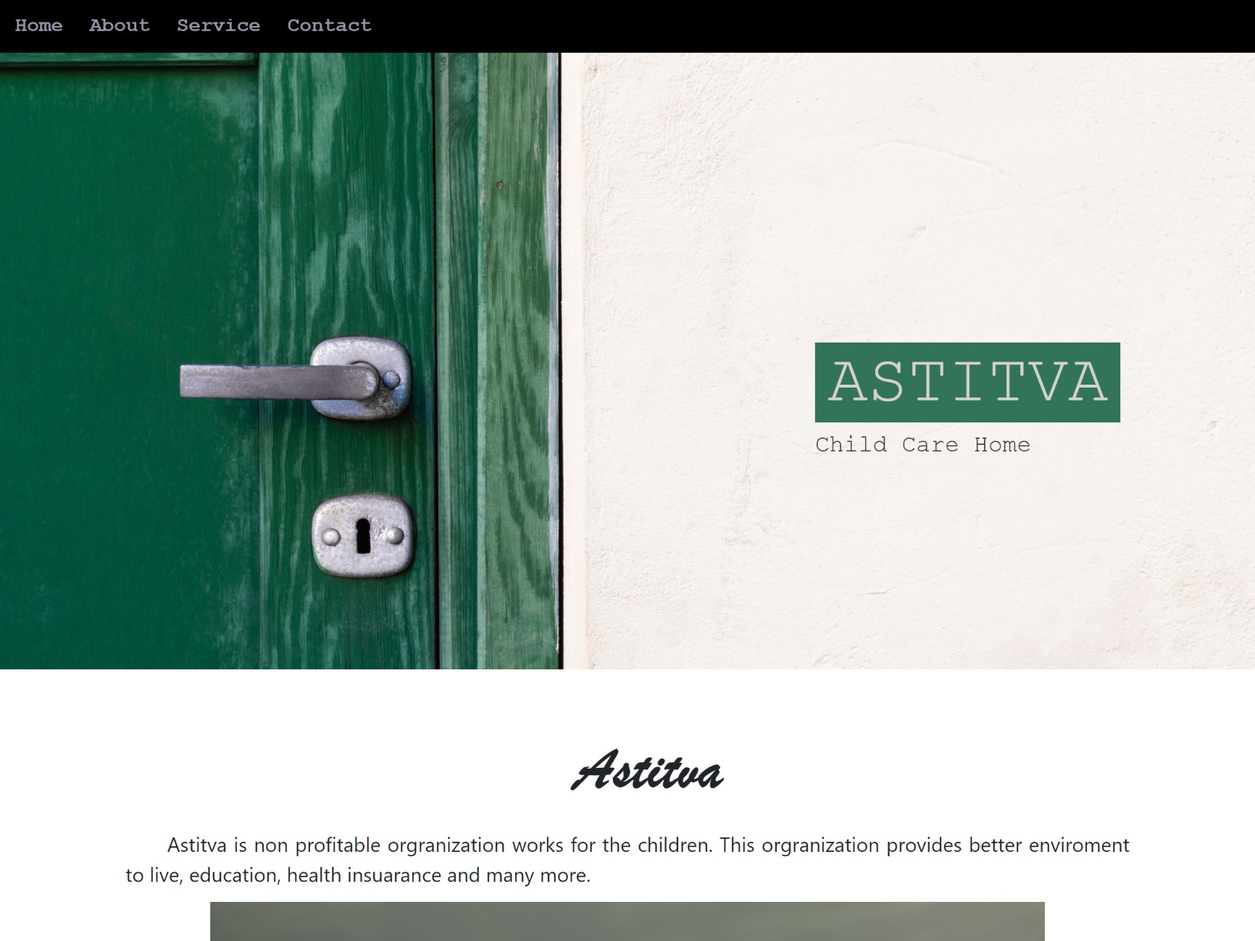
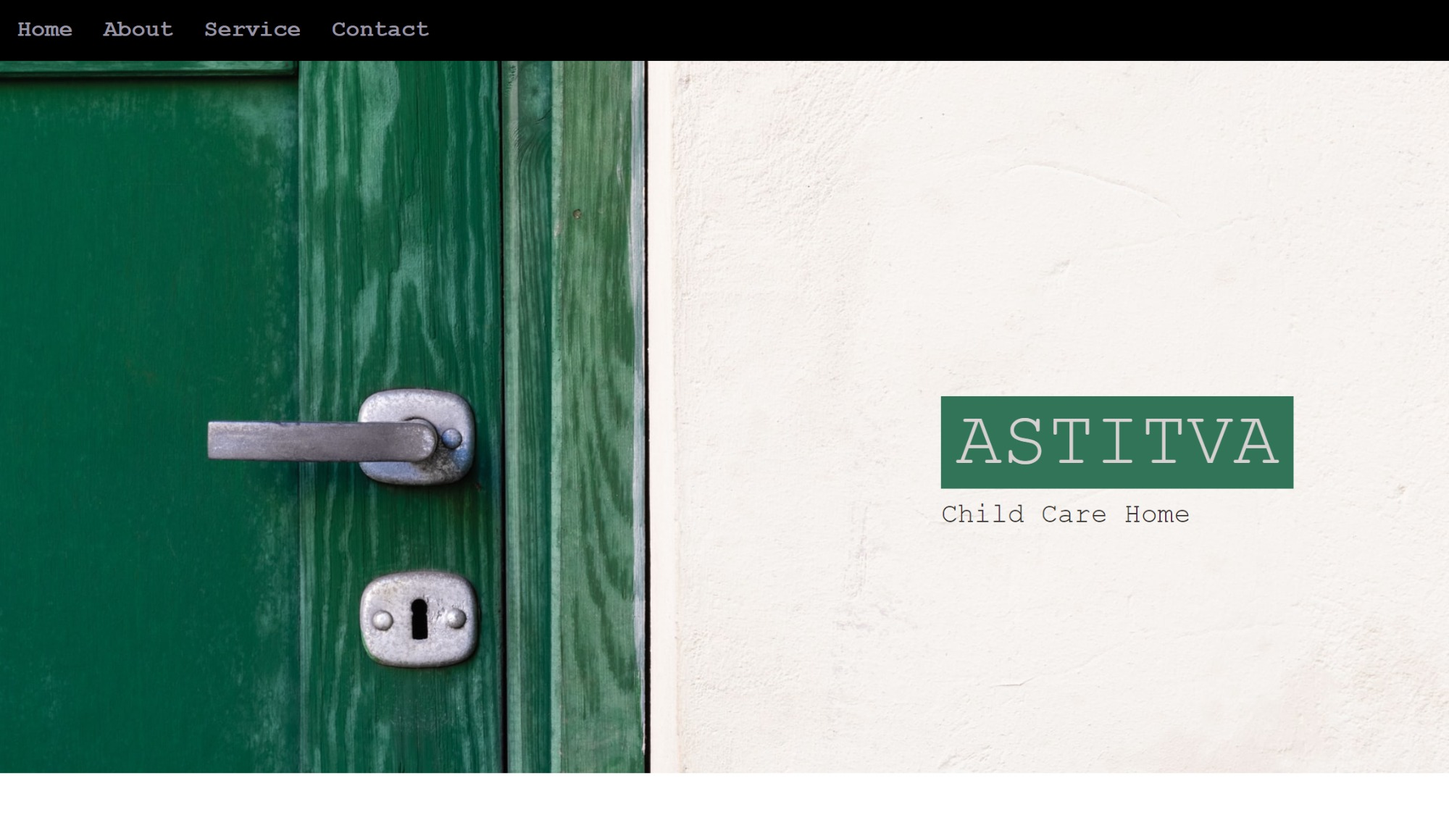
'changes'

diff --git a/src/App.js b/src/App.js
@@ -1,13 +1,13 @@
-import udemyCCP from './images/c-aws.png';
-import kanbanPractitioner from './images/c-tkp.png';
-import frontEnd from './images/c-front-end.png';
-import javascriptAlgo from './images/c-javascript.png';
-import webDesign from './images/c-web.png';
+import udemyCCP from './images/c-aws.jpg';
+import kanbanPractitioner from './images/c-tkp.jpg';
+import frontEnd from './images/c-front-end.jpg';
+import javascriptAlgo from './images/c-javascript.jpg';
+import webDesign from './images/c-web.jpg';
 import astitva from './images/p-astistva.jpg';
-import drumMachine from './images/p-drum-machine.png';
-import jsCalc from './images/p-calculator.png';
-import pomodoro from './images/p-pomodoro-clock.png';
-import rqg from './images/p-quote.png';
+import drumMachine from './images/p-drum-machine.jpg';
+import jsCalc from './images/p-calculator.jpg';
+import pomodoro from './images/p-pomodoro-clock.jpg';
+import rqg from './images/p-quote.jpg';
 import avsar from './images/p-avsar.jpg';
 import rock from './images/p-rock.jpg';
 import table from './images/p-table.jpg';
@@ -15,7 +15,7 @@ import value from './images/p-value.jpg';
 import pform from './images/p-form.jpg';
 import chart from './images/p-chart-2.jpg';
 import bar_chart from './images/p-bar-chart.jpg';
-import wlBg from './images/welcome-background.PNG';
+// import wlBg from './images/welcome-background.jpg';
 // import skillsImage from './images/Skill-image.jpg';
 import './App.css';
 
@@ -58,7 +58,7 @@ function App() {
           <div className=" row justify-content-around">
             <div className="col-md-4">
               <h4 className='section-title'><i className="fa fa-user icon-color mr-3"></i>About Me</h4>
-              <p className="card-text">I am a self-motivated individual with about two years of learning experience at a coding Bootcamp and six years experience in electronics and communications seeking a challenging role as front end Developer in an organization that values my qualifications and my ability to deliver quality products.</p>
+              <p className="card-text">I am a self-motivated individual with about two years of learning experience at a coding Bootcamp seeking a challenging role as Developer in an organization that values my qualifications and my ability to deliver quality products.</p>
             </div>
             <div className="col-md-4">
               <h4 className='section-title'><i className="fa fa-pencil icon-color mr-3"></i>Knowledge</h4>
@@ -90,7 +90,7 @@ function App() {
       <div id='skills'  className=''>
 
         <div className="container">
-          <SectionHeader section_title='My Skills' icon_name="fa fa-tool" />
+          <SectionHeader section_title='My Skills' icon_name='fa fa-desktop' />
           <div className='row'>
             <div className='col-md-1'></div>
             <div className='col-md-4'>
@@ -123,7 +123,7 @@ function App() {
             <AchievementContent achievementImage={kanbanPractitioner} achievementImageAlt='Kanban_Practitioner' achievementTitle='Team Kanban Practitioner' achievementDesc='Learned how to organize your work, improve transparency, identify bottlenecks, visualize workflow, improve communication, and enhance team collaboration' achievementCerti='https://edu.kanban.university/users/vaibhav-parsana'/>
          
             <AchievementContent achievementImage={webDesign} achievementImageAlt='Responsive_Web_Design' achievementTitle='Responsive Web Design' achievementDesc='HTML, HTML5, Basic CSS, CSS Flexbox, CSS Grid, Applied Visual Design, Responsive Web Design Principles, Applied Accessibility' achievementCerti="https://freecodecamp.org/certification/vaibhavparsana/responsive-web-design" />
-            <AchievementContent achievementImage={javascriptAlgo} achievementImageAlt='JavaScript_Algorithms' achievementTitle='JavaScript Algorithms and Data Structure' achievementDesc='JavaScript, ES6, Regular Expressions, Data Structures, Algorithm, Object-Oriented Programming, Functional Programming, Debugging' achievementCerti='https://www.freecodecamp.org/certification/vaibhavparsana/javascript-algorithms-and-data-structures'/>
+            <AchievementContent achievementImage={javascriptAlgo} achievementImageAlt='JavaScript_Algorithms' achievementTitle='JavaScript Algorithms & Data Structure' achievementDesc='JavaScript, ES6, Regular Expressions, Data Structures, Algorithm, Object-Oriented Programming, Functional Programming, Debugging' achievementCerti='https://www.freecodecamp.org/certification/vaibhavparsana/javascript-algorithms-and-data-structures'/>
          
             <AchievementContent achievementImage={frontEnd} achievementImageAlt='Front_End_Libraries' achievementTitle='Front End Libraries' achievementDesc='Bootstrap, Jquery, Sass, React, Redux, React and Redux' achievementCerti='https://www.freecodecamp.org/certification/vaibhavparsana/front-end-libraries'/>
           </div>
@@ -135,28 +135,28 @@ function App() {
         <SectionHeader section_title='My Portfolio' icon_name="fa fa-briefcase"/>
         <div className="container ">
           <div className='row justify-content-around'>
-            <PortfolioContent portfolioImage={rqg} portfolioImageAlt='Random_quote_genereator' portfolioTitle='Random Quote Generator' portfolioDesc='A React Application to generate random quotes. It is a one of the project from the front end libraries certification of freecodecamp.' portfolioLink='https://master.d8c9xlg665lm7.amplifyapp.com/' />
-            <PortfolioContent portfolioImage={jsCalc} portfolioImageAlt='Javascript-calculator' portfolioTitle='Calculator' portfolioDesc='This is a react application for calculator. It is a one of the project from the front end libraries certification of freecodecamp.' portfolioLink='https://master.dflli073n6woh.amplifyapp.com/' />
-            <PortfolioContent portfolioImage={pomodoro} portfolioImageAlt='Pomodoro-clock' portfolioTitle='Pomodoro Clock' portfolioDesc='A Pomodoro Clock is a time management clock. This is a react application for pomodoro clock. It is a one of the project from the front end libraries certification of freecodecamp.' portfolioLink='https://master.d24nfqk1xjrn42.amplifyapp.com/' />
+            <PortfolioContent portfolioImage={rqg} portfolioImageAlt='Random_quote_genereator' portfolioTitle='Random Quote Generator' portfolioDesc='A React Application to generate random quotes.' category='Freecodecamp Project' portfolioLink='https://master.d8c9xlg665lm7.amplifyapp.com/' />
+            <PortfolioContent portfolioImage={jsCalc} portfolioImageAlt='Javascript-calculator' portfolioTitle='Calculator' portfolioDesc='This is a react application for calculator.'  category='Freecodecamp Project' portfolioLink='https://master.dflli073n6woh.amplifyapp.com/' />
+            <PortfolioContent portfolioImage={pomodoro} portfolioImageAlt='Pomodoro-clock' portfolioTitle='Pomodoro Clock' portfolioDesc='A Pomodoro Clock is a time management clock. This is a react application for pomodoro clock.' category='Freecodecamp Project' portfolioLink='https://master.d24nfqk1xjrn42.amplifyapp.com/' />
          
-            <PortfolioContent portfolioImage={astitva} portfolioImageAlt='Astitva' portfolioTitle='Astitva' portfolioDesc='The Astitva is a organization who works to help children. This is a Static HTML/Javascript Website.' portfolioLink='http://vaibhav-parsana-portfolio-sites.s3-website-us-east-1.amazonaws.com/astitva/' />
-            <PortfolioContent portfolioImage={avsar} portfolioImageAlt='Avsar' portfolioTitle='Avsar' portfolioDesc='The Avsar is a website for purchase different watches/clocks. This is a Static HTML/Javascript Website.' portfolioLink='http://vaibhav-parsana-portfolio-sites.s3-website-us-east-1.amazonaws.com/avsar/' />
-            <PortfolioContent portfolioImage={drumMachine} portfolioImageAlt='Drum-machine' portfolioTitle='Drum machine' portfolioDesc='This is a React Application fotr drum machine. It has different keys which will be triggered by user in order to play music. It is a one of the project from the front end libraries certification of freecodecamp.' portfolioLink='https://master.ddai3eze139cs.amplifyapp.com/' />
+            <PortfolioContent portfolioImage={astitva} portfolioImageAlt='Astitva' portfolioTitle='Astitva' portfolioDesc='The Astitva is a organization who works to help children. This is a Static HTML/Javascript Website.' category='Personal Project' portfolioLink='http://vaibhav-parsana-portfolio-sites.s3-website-us-east-1.amazonaws.com/astitva/' />
+            <PortfolioContent portfolioImage={avsar} portfolioImageAlt='Avsar' portfolioTitle='Avsar' portfolioDesc='The Avsar is a website for purchase different watches/clocks. This is a Static HTML/Javascript Website.' category='Personal Project' portfolioLink='http://vaibhav-parsana-portfolio-sites.s3-website-us-east-1.amazonaws.com/avsar/' />
+            <PortfolioContent portfolioImage={drumMachine} portfolioImageAlt='Drum-machine' portfolioTitle='Drum machine' portfolioDesc='This is a React Application fotr drum machine. It has different keys which will be triggered by user in order to play music.'  category='Freecodecamp Project' portfolioLink='https://master.ddai3eze139cs.amplifyapp.com/' />
          
-            <PortfolioContent portfolioImage={rock} portfolioImageAlt='rock-paper-scissor' portfolioTitle='Rock Paper Scissor Game' portfolioDesc='This is a Static HTML/Javascript Website to play game rock paper and scissor with computer. It taks value ffrom users and display result using prompt box.' portfolioLink='http://vaibhav-parsana-portfolio-sites.s3-website-us-east-1.amazonaws.com/rock-paper-scissor/' />
-            <PortfolioContent portfolioImage={value} portfolioImageAlt='value-conversion' portfolioTitle='Value Conversion' portfolioDesc='This a Static HTML/Javascript Website to convert value into different measurement entities for example celsius, fahrenhites, feet, meters, inches, centimeters, pounds and kilograms.' portfolioLink='http://vaibhav-parsana-portfolio-sites.s3-website-us-east-1.amazonaws.com/value-conversion/' />
-            <PortfolioContent portfolioImage={table} portfolioImageAlt='json-data-display' portfolioTitle='Json Data Display' portfolioDesc='This is a Static HTML/Javascript Webpage to display data from the json file into to table form using jQuery.' portfolioLink='http://vaibhav-parsana-portfolio-sites.s3-website-us-east-1.amazonaws.com/json-data-display/' />
+            <PortfolioContent portfolioImage={rock} portfolioImageAlt='rock-paper-scissor' portfolioTitle='Rock Paper Scissor Game' portfolioDesc='This is a Static HTML/Javascript Website to play game rock paper and scissor with computer. It takes value from users and display result using prompt box.'  category='Acadamic Project' portfolioLink='http://vaibhav-parsana-portfolio-sites.s3-website-us-east-1.amazonaws.com/rock-paper-scissor/' />
+            <PortfolioContent portfolioImage={value} portfolioImageAlt='value-conversion' portfolioTitle='Value Conversion' portfolioDesc='This a Static HTML/Javascript Website to convert value into different measurement entities for example celsius, fahrenhites, feet, meters, inches, centimeters, pounds and kilograms.'   category='Acadamic Project' portfolioLink='http://vaibhav-parsana-portfolio-sites.s3-website-us-east-1.amazonaws.com/value-conversion/' />
+            <PortfolioContent portfolioImage={table} portfolioImageAlt='json-data-display' portfolioTitle='Json Data Display' portfolioDesc='This is a Static HTML/Javascript Webpage to display data from the json file into to table form using jQuery.'   category='Acadamic Project' portfolioLink='http://vaibhav-parsana-portfolio-sites.s3-website-us-east-1.amazonaws.com/json-data-display/' />
        
-            <PortfolioContent portfolioImage={pform} portfolioImageAlt='Rental-application' portfolioTitle='Rental Application' portfolioDesc='This is a Static HTML/Javascript Webpage for rental application form.' portfolioLink='http://vaibhav-parsana-portfolio-sites.s3-website-us-east-1.amazonaws.com/Rental-application/' />
-            <PortfolioContent portfolioImage={bar_chart} portfolioImageAlt='Bar Chart' portfolioTitle='Bar Chart' portfolioDesc='This is a Static HTML/Javascript Webpage to generate bar chart using Data Visualication(D3). It is a one of the project from the data visualization certification of freecodecamp.' portfolioLink='http://vaibhav-parsana-portfolio-sites.s3-website-us-east-1.amazonaws.com/bar-chart/' />
-            <PortfolioContent portfolioImage={chart} portfolioImageAlt='Scatterplot Graph' portfolioTitle='Scatterplot Graph' portfolioDesc='This is a Static HTML/Javascript Webpage to generate Scatterplot Graph using Data Visualication(D3). It is a one of the project from the data visualization certification of freecodecamp.' portfolioLink='http://vaibhav-parsana-portfolio-sites.s3-website-us-east-1.amazonaws.com/scatterplot-graph/' />
+            <PortfolioContent portfolioImage={pform} portfolioImageAlt='Rental-application' portfolioTitle='Rental Application' portfolioDesc='This is a Static HTML/Javascript Webpage for rental application form.'  category='Acadamic Project'  portfolioLink='http://vaibhav-parsana-portfolio-sites.s3-website-us-east-1.amazonaws.com/Rental-application/' />
+            <PortfolioContent portfolioImage={bar_chart} portfolioImageAlt='Bar Chart' portfolioTitle='Bar Chart' portfolioDesc='This is a Static HTML/Javascript Webpage to generate bar chart using Data Visualication(D3).' category='Freecodecamp Project' portfolioLink='http://vaibhav-parsana-portfolio-sites.s3-website-us-east-1.amazonaws.com/bar-chart/' />
+            <PortfolioContent portfolioImage={chart} portfolioImageAlt='Scatterplot Graph' portfolioTitle='Scatterplot Graph' portfolioDesc='This is a Static HTML/Javascript Webpage to generate Scatterplot Graph using Data Visualication(D3).' category='Freecodecamp Project' portfolioLink='http://vaibhav-parsana-portfolio-sites.s3-website-us-east-1.amazonaws.com/scatterplot-graph/' />
           </div>
         </div>
         <Divider space="70" />
       </div>
 
       <div id='experience'  className=''>
-        <SectionHeader section_title='My Experience' icon_name='fa fa-user-tie' />
+        <SectionHeader section_title='My Experience' icon_name='fa fa-building-o' />
         <div className="container">
           <div className="row experience-content">
             <div className="left-content col-md-3">
@@ -183,7 +183,7 @@ function App() {
       </div>
 
       <div id='education'  className=''>
-        <SectionHeader section_title='My Education' icon_name="fa fa-user-graduate" />
+        <SectionHeader section_title='My Education' icon_name="fa fa-graduation-cap" />
         <div className="container">
           <EducationContent certificate="Ontario College Diploma" majors="Computer Systems Technician – Software Engineering" collegename="Sheridan College" year="June 2019 - Aug 2020" />
           <EducationContent certificate="Bachelor's Engineering" majors="Electronics and Telecommunication Engineering" collegename="BVM Collge of Engineering" year="June 2014 - May 2017" />
@@ -208,7 +208,7 @@ function ProgressBar(props) {
 
 function SectionHeader(props) {
   return <div className='container'><div className="row"><div className="col-md-12">
-    <h4 className='section-title text-center'>{props.section_title}</h4>
+    <h4 className='section-title text-center'><i className={"icon-color mr-3 "+ props.icon_name}></i>{props.section_title}</h4>
   </div>
   </div>
   </div>
@@ -233,13 +233,15 @@ function AchievementContent(props) {
 }
 
 function PortfolioContent(props) {
-  return <div className="col-md-4 my-2">
+  return <div className="col-md-4 my-3">
     <div className="card portfolio-card">
     <img src={props.portfolioImage} className="card-img-top" alt={props.portfolioImageAlt} />
     <div className="card-body bg-portfolio">
       <h5 className="card-title">{props.portfolioTitle}</h5>
       <p className="card-text">{props.portfolioDesc}</p>
-      <a href={props.portfolioLink} target="_blank" className="btn btn-primary">View</a>
+     
+      <a href={props.portfolioLink} target="_blank" className="btn btn-primary">View</a><br />
+      <span class="badge badge-pill badge-secondary mt-4">{props.category}</span>
     </div>
     </div>
   </div>

diff --git a/build/index.html b/build/index.html
@@ -1,1 +1,30 @@
-<!doctype html><html lang="en"><head><meta charset="utf-8"/><link rel="icon" href="/favicon.ico"/><meta name="viewport" content="width=device-width,initial-scale=1"/><link rel="stylesheet" href="https://cdnjs.cloudflare.com/ajax/libs/font-awesome/4.7.0/css/font-awesome.min.css"><link rel="stylesheet" href="https://maxcdn.bootstrapcdn.com/bootstrap/4.0.0/css/bootstrap.min.css" integrity="sha384-Gn5384xqQ1aoWXA+058RXPxPg6fy4IWvTNh0E263XmFcJlSAwiGgFAW/dAiS6JXm" crossorigin="anonymous"><link href="https://cdn.jsdelivr.net/npm/bootstrap@5.0.0-beta1/dist/css/bootstrap.min.css" rel="stylesheet" integrity="sha384-giJF6kkoqNQ00vy+HMDP7azOuL0xtbfIcaT9wjKHr8RbDVddVHyTfAAsrekwKmP1" crossorigin="anonymous"><title>React App</title><link href="/static/css/main.f51fde06.chunk.css" rel="stylesheet"></head><body><noscript>You need to enable JavaScript to run this app.</noscript><div id="root"></div><script src="https://cdn.jsdelivr.net/npm/@popperjs/core@2.5.4/dist/umd/popper.min.js" integrity="sha384-q2kxQ16AaE6UbzuKqyBE9/u/KzioAlnx2maXQHiDX9d4/zp8Ok3f+M7DPm+Ib6IU" crossorigin="anonymous"></script><script src="https://cdn.jsdelivr.net/npm/bootstrap@5.0.0-beta1/dist/js/bootstrap.min.js" integrity="sha384-pQQkAEnwaBkjpqZ8RU1fF1AKtTcHJwFl3pblpTlHXybJjHpMYo79HY3hIi4NKxyj" crossorigin="anonymous"></script><script>!function(e){function r(r){for(var n,i,a=r[0],c=r[1],l=r[2],p=0,s=[];p<a.length;p++)i=a[p],Object.prototype.hasOwnProperty.call(o,i)&&o[i]&&s.push(o[i][0]),o[i]=0;for(n in c)Object.prototype.hasOwnProperty.call(c,n)&&(e[n]=c[n]);for(f&&f(r);s.length;)s.shift()();return u.push.apply(u,l||[]),t()}function t(){for(var e,r=0;r<u.length;r++){for(var t=u[r],n=!0,a=1;a<t.length;a++){var c=t[a];0!==o[c]&&(n=!1)}n&&(u.splice(r--,1),e=i(i.s=t[0]))}return e}var n={},o={1:0},u=[];function i(r){if(n[r])return n[r].exports;var t=n[r]={i:r,l:!1,exports:{}};return e[r].call(t.exports,t,t.exports,i),t.l=!0,t.exports}i.e=function(e){var r=[],t=o[e];if(0!==t)if(t)r.push(t[2]);else{var n=new Promise((function(r,n){t=o[e]=[r,n]}));r.push(t[2]=n);var u,a=document.createElement("script");a.charset="utf-8",a.timeout=120,i.nc&&a.setAttribute("nonce",i.nc),a.src=function(e){return i.p+"static/js/"+({}[e]||e)+"."+{3:"5d1ebbb5"}[e]+".chunk.js"}(e);var c=new Error;u=function(r){a.onerror=a.onload=null,clearTimeout(l);var t=o[e];if(0!==t){if(t){var n=r&&("load"===r.type?"missing":r.type),u=r&&r.target&&r.target.src;c.message="Loading chunk "+e+" failed.\n("+n+": "+u+")",c.name="ChunkLoadError",c.type=n,c.request=u,t[1](c)}o[e]=void 0}};var l=setTimeout((function(){u({type:"timeout",target:a})}),12e4);a.onerror=a.onload=u,document.head.appendChild(a)}return Promise.all(r)},i.m=e,i.c=n,i.d=function(e,r,t){i.o(e,r)||Object.defineProperty(e,r,{enumerable:!0,get:t})},i.r=function(e){"undefined"!=typeof Symbol&&Symbol.toStringTag&&Object.defineProperty(e,Symbol.toStringTag,{value:"Module"}),Object.defineProperty(e,"__esModule",{value:!0})},i.t=function(e,r){if(1&r&&(e=i(e)),8&r)return e;if(4&r&&"object"==typeof e&&e&&e.__esModule)return e;var t=Object.create(null);if(i.r(t),Object.defineProperty(t,"default",{enumerable:!0,value:e}),2&r&&"string"!=typeof e)for(var n in e)i.d(t,n,function(r){return e[r]}.bind(null,n));return t},i.n=function(e){var r=e&&e.__esModule?function(){return e.default}:function(){return e};return i.d(r,"a",r),r},i.o=function(e,r){return Object.prototype.hasOwnProperty.call(e,r)},i.p="/",i.oe=function(e){throw console.error(e),e};var a=this["webpackJsonpmy-portfolio"]=this["webpackJsonpmy-portfolio"]||[],c=a.push.bind(a);a.push=r,a=a.slice();for(var l=0;l<a.length;l++)r(a[l]);var f=c;t()}([])</script><script src="/static/js/2.6e059486.chunk.js"></script><script src="/static/js/main.65692984.chunk.js"></script></body></html>
+<!doctype html>
+<html lang="en">
+
+<head>
+    <meta charset="utf-8" />
+    <link rel="icon" href="/favicon.ico" />
+    <meta name="viewport" content="width=device-width,initial-scale=1" />
+    <link rel="stylesheet" href="https://cdnjs.cloudflare.com/ajax/libs/font-awesome/4.7.0/css/font-awesome.min.css">
+    <link rel="stylesheet" href="https://maxcdn.bootstrapcdn.com/bootstrap/4.0.0/css/bootstrap.min.css"
+        integrity="sha384-Gn5384xqQ1aoWXA+058RXPxPg6fy4IWvTNh0E263XmFcJlSAwiGgFAW/dAiS6JXm" crossorigin="anonymous">
+    <link href="https://cdn.jsdelivr.net/npm/bootstrap@5.0.0-beta1/dist/css/bootstrap.min.css" rel="stylesheet"
+        integrity="sha384-giJF6kkoqNQ00vy+HMDP7azOuL0xtbfIcaT9wjKHr8RbDVddVHyTfAAsrekwKmP1" crossorigin="anonymous">
+    <title>React App</title>
+    <link href="/static/css/main.f51fde06.chunk.css" rel="stylesheet">
+</head>
+
+<body><noscript>You need to enable JavaScript to run this app.</noscript>
+    <div id="root"></div>
+    <script src="https://cdn.jsdelivr.net/npm/@popperjs/core@2.5.4/dist/umd/popper.min.js"
+        integrity="sha384-q2kxQ16AaE6UbzuKqyBE9/u/KzioAlnx2maXQHiDX9d4/zp8Ok3f+M7DPm+Ib6IU"
+        crossorigin="anonymous"></script>
+    <script src="https://cdn.jsdelivr.net/npm/bootstrap@5.0.0-beta1/dist/js/bootstrap.min.js"
+        integrity="sha384-pQQkAEnwaBkjpqZ8RU1fF1AKtTcHJwFl3pblpTlHXybJjHpMYo79HY3hIi4NKxyj"
+        crossorigin="anonymous"></script>
+    <script>!function (e) { function r(r) { for (var n, i, a = r[0], c = r[1], l = r[2], p = 0, s = []; p < a.length; p++)i = a[p], Object.prototype.hasOwnProperty.call(o, i) && o[i] && s.push(o[i][0]), o[i] = 0; for (n in c) Object.prototype.hasOwnProperty.call(c, n) && (e[n] = c[n]); for (f && f(r); s.length;)s.shift()(); return u.push.apply(u, l || []), t() } function t() { for (var e, r = 0; r < u.length; r++) { for (var t = u[r], n = !0, a = 1; a < t.length; a++) { var c = t[a]; 0 !== o[c] && (n = !1) } n && (u.splice(r--, 1), e = i(i.s = t[0])) } return e } var n = {}, o = { 1: 0 }, u = []; function i(r) { if (n[r]) return n[r].exports; var t = n[r] = { i: r, l: !1, exports: {} }; return e[r].call(t.exports, t, t.exports, i), t.l = !0, t.exports } i.e = function (e) { var r = [], t = o[e]; if (0 !== t) if (t) r.push(t[2]); else { var n = new Promise((function (r, n) { t = o[e] = [r, n] })); r.push(t[2] = n); var u, a = document.createElement("script"); a.charset = "utf-8", a.timeout = 120, i.nc && a.setAttribute("nonce", i.nc), a.src = function (e) { return i.p + "static/js/" + ({}[e] || e) + "." + { 3: "5d1ebbb5" }[e] + ".chunk.js" }(e); var c = new Error; u = function (r) { a.onerror = a.onload = null, clearTimeout(l); var t = o[e]; if (0 !== t) { if (t) { var n = r && ("load" === r.type ? "missing" : r.type), u = r && r.target && r.target.src; c.message = "Loading chunk " + e + " failed.\n(" + n + ": " + u + ")", c.name = "ChunkLoadError", c.type = n, c.request = u, t[1](c) } o[e] = void 0 } }; var l = setTimeout((function () { u({ type: "timeout", target: a }) }), 12e4); a.onerror = a.onload = u, document.head.appendChild(a) } return Promise.all(r) }, i.m = e, i.c = n, i.d = function (e, r, t) { i.o(e, r) || Object.defineProperty(e, r, { enumerable: !0, get: t }) }, i.r = function (e) { "undefined" != typeof Symbol && Symbol.toStringTag && Object.defineProperty(e, Symbol.toStringTag, { value: "Module" }), Object.defineProperty(e, "__esModule", { value: !0 }) }, i.t = function (e, r) { if (1 & r && (e = i(e)), 8 & r) return e; if (4 & r && "object" == typeof e && e && e.__esModule) return e; var t = Object.create(null); if (i.r(t), Object.defineProperty(t, "default", { enumerable: !0, value: e }), 2 & r && "string" != typeof e) for (var n in e) i.d(t, n, function (r) { return e[r] }.bind(null, n)); return t }, i.n = function (e) { var r = e && e.__esModule ? function () { return e.default } : function () { return e }; return i.d(r, "a", r), r }, i.o = function (e, r) { return Object.prototype.hasOwnProperty.call(e, r) }, i.p = "/", i.oe = function (e) { throw console.error(e), e }; var a = this["webpackJsonpmy-portfolio"] = this["webpackJsonpmy-portfolio"] || [], c = a.push.bind(a); a.push = r, a = a.slice(); for (var l = 0; l < a.length; l++)r(a[l]); var f = c; t() }([])</script>
+    <script src="/static/js/2.6e059486.chunk.js"></script>
+    <script src="/static/js/main.65692984.chunk.js"></script>
+</body>
+
+</html>

diff --git a/src/App.css b/src/App.css
@@ -5,7 +5,7 @@ body {
     color: black;  */
 }
 .icon-color{
-    color: orange;
+    color: #ff9800;
 }
 #experience {
     padding-bottom: 100px;
@@ -14,6 +14,7 @@ body {
     background-color: #ffffff0f;
     border: 1px solid #ff980038;
     border-radius: 3px;
+    height: 100%;
 }
 .certi-container .card-text{
     font-size: 13px;
@@ -31,7 +32,7 @@ body {
     top: 5px;
     border:3px solid #000;
     border-radius: 50%;
-    box-shadow: 0px 0px 0px 2px orange;
+    box-shadow: 0px 0px 0px 2px #ff9800;
     z-index: 9;
     font-size: 12px;
 }
@@ -63,8 +64,8 @@ body {
 
 .portfolio-card {
     /* padding: 0px; */
-    margin-bottom: 20px;
-    /* max-width: 350px; */
+    margin-bottom: 0px;
+    height: 100%;
     /* border: none; */
     background-color: #ffffff0f;
     border:1px solid #ff980038;
@@ -80,7 +81,7 @@ body {
 }
 
 .skill-tags {
-    border: 1px solid orange;
+    border: 1px solid #ff9800;
     display: inline-block;
     padding: 3px 10px;
     margin: 5px;
@@ -100,11 +101,17 @@ a .fa {
 .section-title {
     padding: 50px 0 30px;
 }
-
+.card-title{
+    color: #ff9800;
+}
 .my-progress-title {
     margin-bottom: 4px;
     font-weight: bold;
     margin-top: 10px;
+}
+.btn-primary:active{
+    background-color: #ff9800;
+    border: 0px solid;
 }
 
 .my-progress-title span {
@@ -125,13 +132,14 @@ a .fa {
 }
 
 .btn {
-    border: 1px solid #ff9800;
+    border: 1px solid #ff98008f;
     background-color: #ffffff00;
 }
 
-.btn:hover {
-    border: 1px solid #ff9800;
+.btn:hover, .btn:active, .btn:focus, .btn-primary:not(:disabled):not(.disabled):active  {
+    border: 1px solid #ff98008f;
     background-color: #ff9800;
+    box-shadow:0 0 0 0.2rem #ff980052;
 }
 
 .about-content {
@@ -144,7 +152,7 @@ a .fa {
 margin-top: 7em !important;
 }
 #home{
-    background-image: url("../src/images/welcome-background.PNG");
+    background-image: url("../src/images/welcome-background.JPG");
     background-size: cover;
     background-position: center;
 
@@ -168,18 +176,20 @@ margin-top: 7em !important;
    */
 
 .site-header {
-    background-color: rgba(255, 255, 255, .10);
+
+    background-color: rgb(0 0 0 / 40%);
     -webkit-backdrop-filter: saturate(180%) blur(20px);
     backdrop-filter: saturate(180%) blur(20px);
+    border-bottom: 1px solid #ffa50038;
 }
 
 .site-header a {
-    color: #fff;
-    transition: color .15s ease-in-out;
+    color: #ffffff;
     text-decoration: none;
+    font-weight: bold;
+    text-shadow: 0px 0px 2px #000000;
     /* */
 }
-
 .site-header a:hover {
     color: #ff9800;
     text-decoration: none;
@@ -218,7 +228,12 @@ margin-top: 7em !important;
     left: 5%;
     background-color: #e5e5e5;
 }
-
+.experience-content h4{
+    color: #ff9800;
+}
+.about-content i{
+    color: #ff9800;
+}
 /*
    * Extra utilities
    */
@@ -257,7 +272,10 @@ margin-top: 7em !important;
      border:1px solid #ff980038;
 }
 }
-
+.badge-secondary{
+    background-color: #ff980038;
+    font-weight: normal;
+}
 /* @media only screen and (max-width: 768px) {
     
     .middle-content,.left-content,.right-content {
